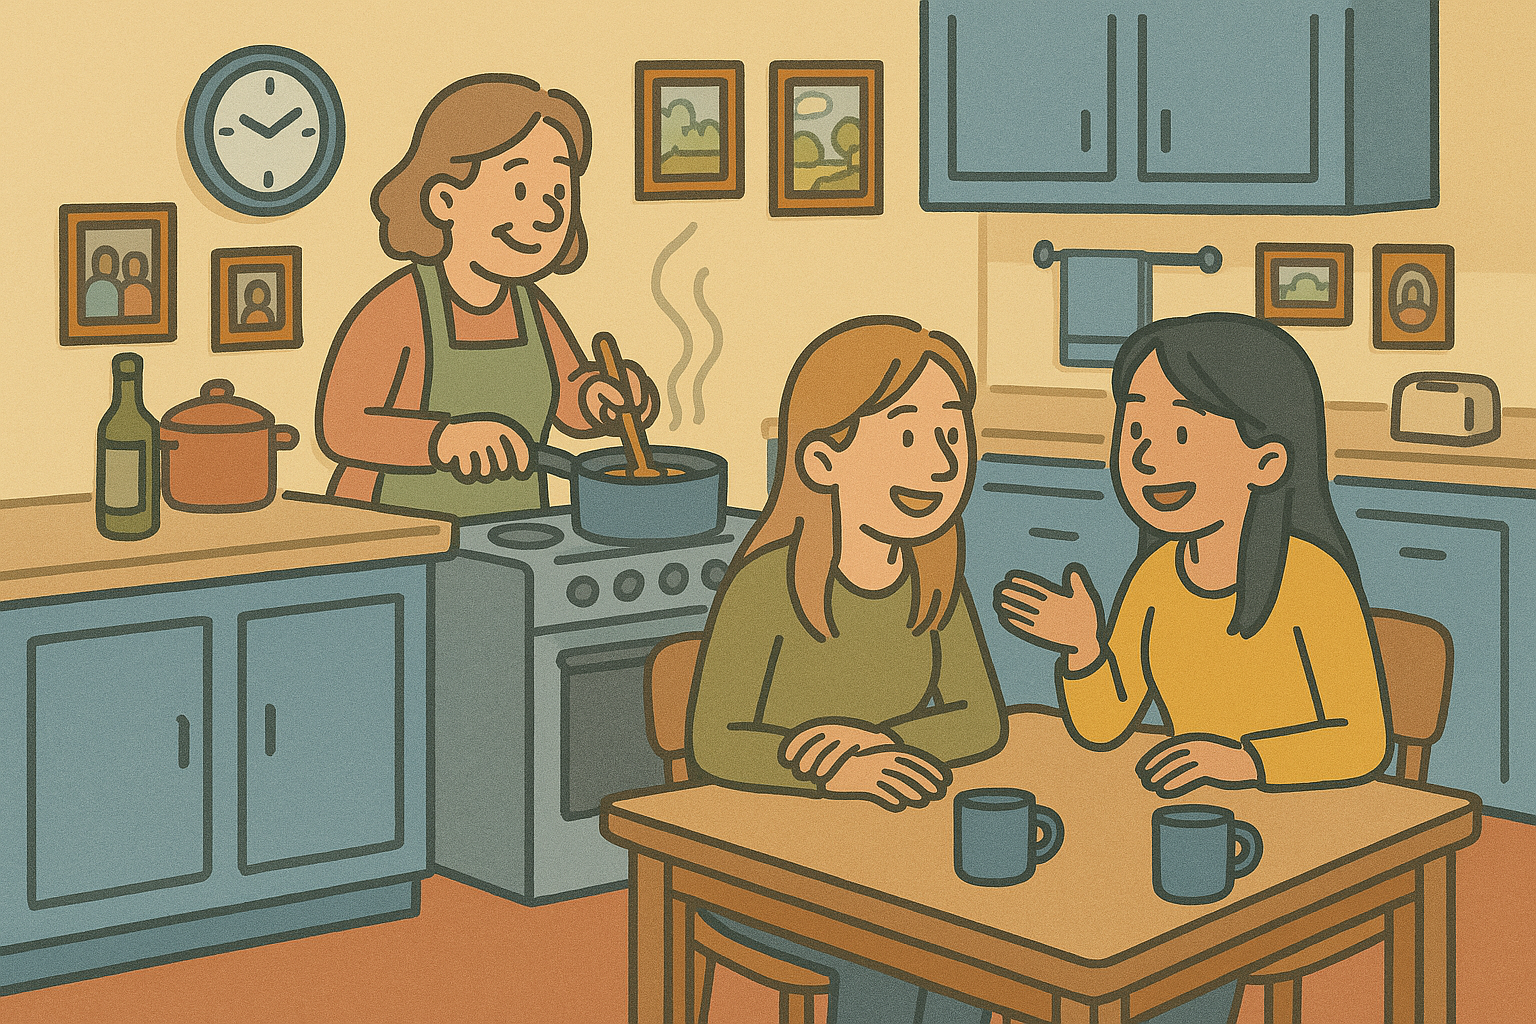
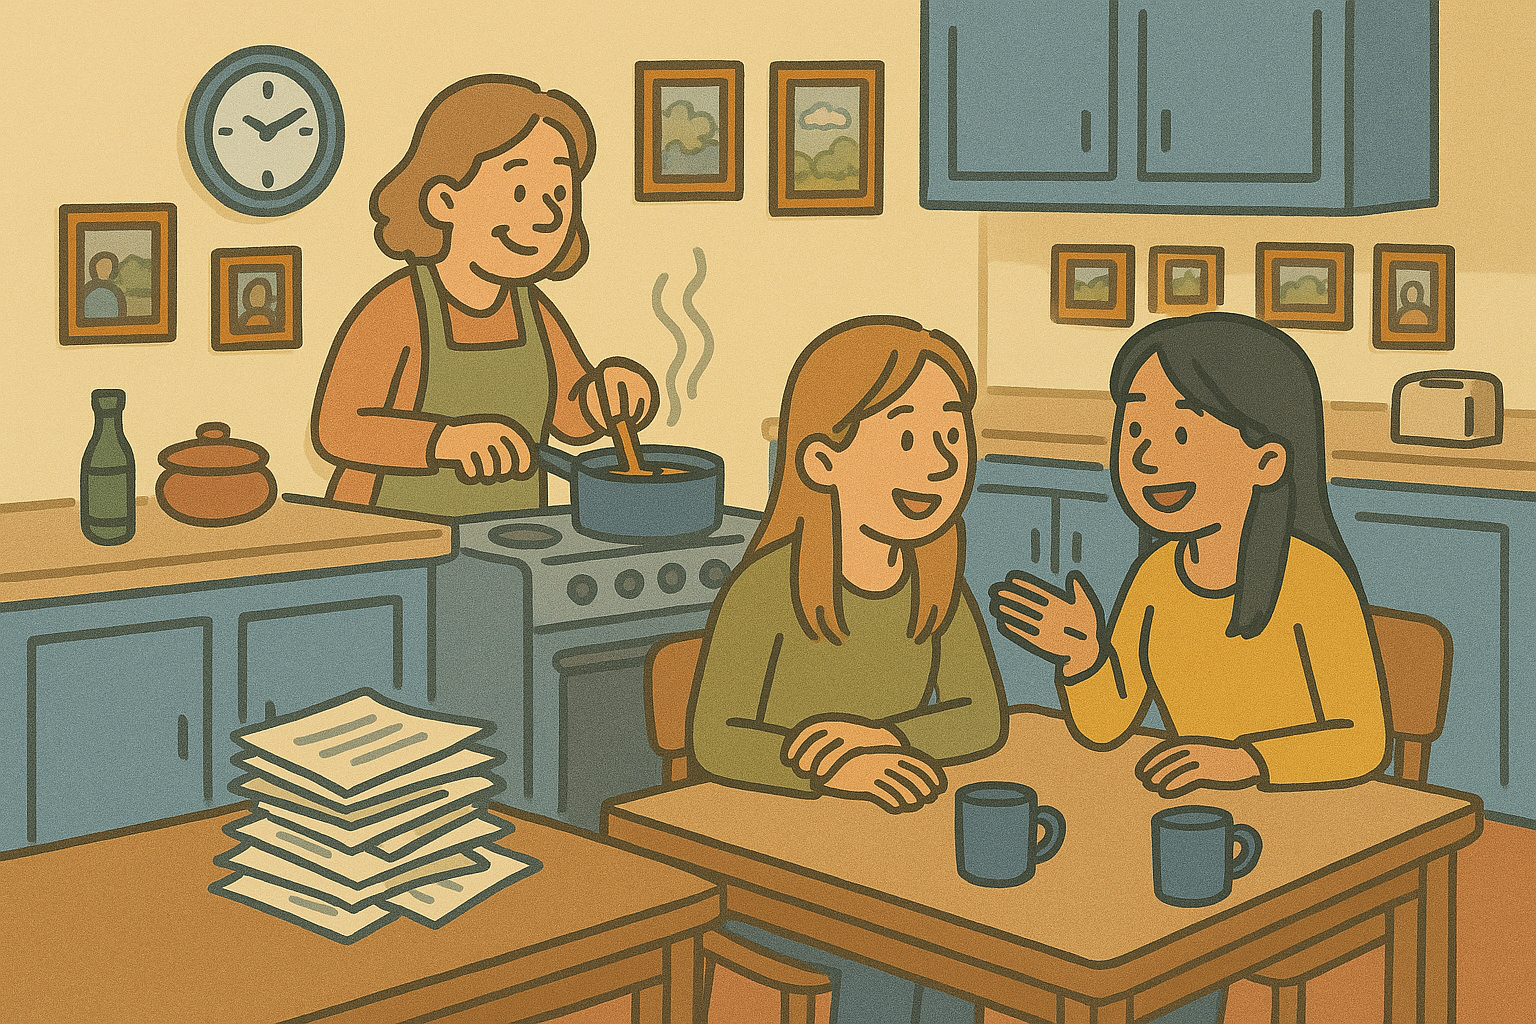
Indoor conversation. Colour-coding comversations.

diff --git a/index.html b/index.html
@@ -18,7 +18,7 @@
   <area shape="rect" coords="1400,0,1500,1024" alt="Exit" href="javascript:go('outdoor');" style="cursor: url('rightarrow.png'), auto">
   <area shape="rect" coords="50,200,180,350" alt="Photo" href="javascript:display('photodiv');" style="cursor: url('glass.png'), auto">
   <area shape="rect" coords="340,270,580,500" alt="Note" href="javascript:display('notediv');" style="cursor: url('glass.png'), auto">
-  <area shape="rect" coords="380,60,590,265" alt="Conversation" href="javascript:display('indoor-convodiv');" style="cursor: url('speech.png'), auto">
+  <area shape="rect" coords="440,60,1340,550" alt="Conversation" href="javascript:display('indoor-convodiv');" style="cursor: url('speech.png'), auto">
   
 </map>
 
@@ -53,11 +53,12 @@
 <!-- Conversation starts off hidden  -->
 
  <div id="indoor-convodiv" class="modal">
-	 <div  class="modal-content" >
+	 <div  class="modal-content convo" style="top:300px; left:100px" >
 		<span class="close" onclick="hide('indoor-convodiv')">&times;</span> 
-		<div class="convo">
-			<p>Convo between</p>
-			<p>Linda, Becky, Zara</p>
+		<div >
+			<p style="color:salmon"> "... and I was saying to Doreen at the hairdresser's, Doreen, I said, our boys look so alike they could almost be twins, I said, and since James got that weird thingy done people can't tell them apart any more..."</p>
+			<p style="color:forestgreen"> "'Weird thingy'? Ugh, Mum, you're so embarrassing. Ignore her, Zara."</p>
+			<p style="color:orange">"Becky, you sound like a teenager, haha."</p>
 		</div>
 	</div>
 </div> 
@@ -71,7 +72,7 @@
   <area shape="rect" coords="1040,200,1120,370" alt="Door" href="#" onclick="go('indoor');" style="cursor: url('uparrow.png'), auto">
    <area shape="rect" coords="1400,0,1500,1024" alt="Right" href="javascript:go('road');" style="cursor: url('rightarrow.png'), auto">
     <area shape="rect" coords="150,450,700,770" alt="Car" href="javascript:display('cardiv');" style="cursor: url('glass.png'), auto">
-	<area shape="rect" coords="350,220,1039,400" alt="Conversation" href="javascript:display('outdoor-convodiv');" style="cursor: url('speech.png'), auto">
+	<area shape="rect" coords="350,220,1000,400" alt="Conversation" href="javascript:display('outdoor-convodiv');" style="cursor: url('speech.png'), auto">
 </map>
 
 <!-- Box of beans starts off hidden  -->
@@ -87,8 +88,8 @@
  <div id="outdoor-convodiv" class="modal">
 	 <div  class="modal-content convo" style="top:380px; right:550px" >
 		<span class="close" onclick="hide('outdoor-convodiv')">&times;</span> 
-		<p>"What the hell were you doing?"</p>
-		<p>"I was indicating! I was clearly turning right into that driveway!"</p>
+		<p style="color:skyblue">"What the hell were you doing?"</p>
+		<p style="color:red">"I was indicating! I was clearly turning right into that driveway!"</p>
 		
 	</div>
 		
@@ -132,10 +133,10 @@
  <div id="coffee-convodiv" class="modal">
 	 <div  class="modal-content convo" style="top:500px; right:500px" >
 		<span class="close" onclick="hide('coffee-convodiv')">&times;</span> 
-		<p>"Nice place! Is it new?"</p>
-		<p>"Yeah. The boss just opened up this new branch, but the old branch has been in Woodley for years."</p>
-		<p>"Oh, cool, I know Woodley - I went to primary school there."</p>
-		<p>"Nice. Take a seat, miss - I'll bring over your order in a sec."</p>
+		<p style="color:orangered">"Nice place! Is it new?"</p>
+		<p style="color:forestgreen">"Yeah. The boss just opened up this new branch, but the old branch has been in Woodley for years."</p>
+		<p style="color:orangered">"Oh, cool, I know Woodley - I went to primary school there."</p>
+		<p style="color:forestgreen">"Nice. Take a seat, miss - I'll bring over your order in a sec."</p>
 		
 	</div>
 </div> 

diff --git a/script.js b/script.js
@@ -1,5 +1,5 @@
 const name = ["(Name)",  "Ellie", "Harper", "Linda", "Frank", "Zara", "Andrew", "James", "Becky", "Ben", "Rose", "Dave", "Tom ", "Katie", "Doreen", "Naomi", "Chloe ", "Ruth", "Emma", "Edward", "Ashley", "Julia", "John", "Ali", "Rob ", "Stuart ", "Dawn", "Simon"].sort();
-const noun = ["(noun)", "his parents", "her friend", "coffee beans", "the universe", "a coffee shop", "world peace", "the letter Q", "a duck", "potatoes", "an Easter card", "their house", "the road", "his car", "his job", "money", "existential terror", "an iPhone", "the Riemann hypothesis ", "cheesecake", "her sister", "her brother", "his sister", "his brother", "her parents", "a fruit smoothie", "a milkshake", "a cappuccino", "baked beans", "green beans", "jumping beans", "black beans", ].sort();
+const noun = ["(noun)", "his parents", "her friend", "coffee beans", "the universe", "a coffee shop", "world peace", "the letter Q", "a duck", "potatoes", "an Easter card", "their house", "the road", "his car", "his job", "money", "existential terror", "an iPhone", "the Riemann hypothesis ", "cheesecake", "her sister", "her brother", "his sister", "his brother", "her parents", "a fruit smoothie", "a milkshake", "a cappuccino", "baked beans", "green beans", "jumping beans", "black beans", "Woodley", "Bellington", "Farley", "Norton", "Harpton", "Mereham" ].sort();
 const direction = ["(direction)","north", "south", "east", "west", "downward", "upward","ana", "kata", "rimward", "hubward" ];
 const verb = ["(verb)","visit", "deliver", "eat", "drink", "kill", "defenestrate", "seduce", "reverse-engineer", "buy", "sell", "crash into", "analyse", "find", "apologise to", "drive", "order", "fix", "break", "return", "transmute", "advertise"].sort();
 const verbed = ["(verbed)","visited", "delivered", "ate", "drank", "killed", "defenestrated", "seduced", "reverse-engineered", "bought", "sold", "crashed into", "analysed", "found", "apologised to", "drove", "ordered", "fixed", "broke", "returned", "transmuted", "advertised"].sort();

diff --git a/style.css b/style.css
@@ -5,14 +5,14 @@ img		{position: absolute;}
 select	{
 	border-radius: 5px;
 	box-shadow: 1px 1px #888888;
-	background-color: oldlace;
+	//background-color: oldlace;
 	color: maroon;
 	
 }
 textarea	{
 	border-radius: 10px;
 	box-shadow: 1px 1px #888888;
-	background-color: oldlace;
+	//background-color: oldlace;
 	color: maroon;
 	
 }
